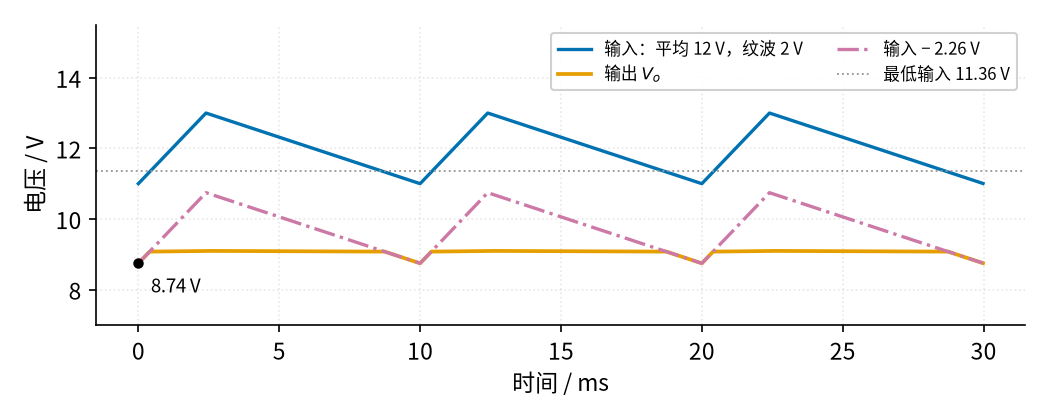
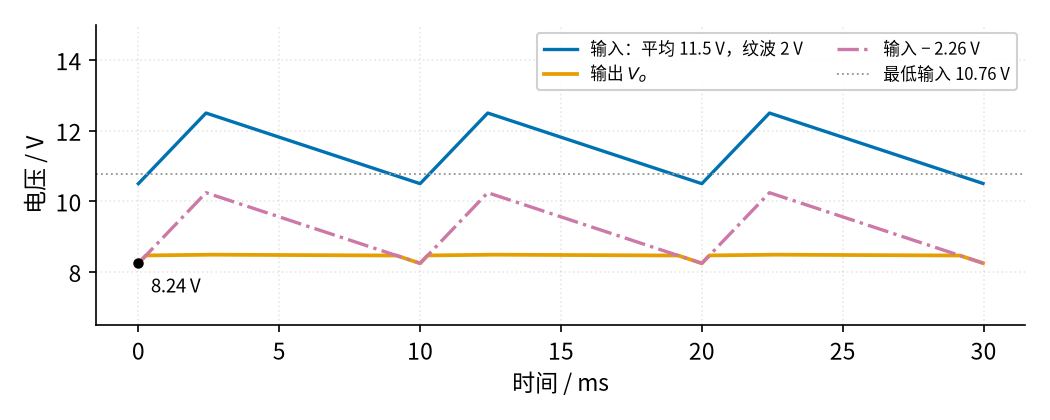
fix: 线性稳压 复核修改

diff --git a/code/figs/08_figs.py b/code/figs/08_figs.py
@@ -1,12 +1,14 @@
 """08 线性稳压：电路图（schemdraw）。运行：/workspace/circuits-venv/bin/python code/figs/08_figs.py
-图上的数字与 code/08_sim.py 的打印一致（V_ref 5.16 V、V_o 9.11 V、运放输出 9.86 V），本脚本也会打印它们。"""
+图上的数字与 code/08_sim.py 的打印一致（V_ref 4.82 V、V_o 8.51 V、运放输出 9.26 V），本脚本也会打印它们。"""
 import os, sys
 sys.path.insert(0, os.path.dirname(os.path.abspath(__file__)))
 import schem
 from schem import elm
 
 P = "08"
-VREF, RF, R1 = 5.162, 3900.0, 5100.0
+VZ0 = 5.1 - 7.0 * 0.049                  # 1N4733A 击穿起点（见 10 page2）
+VREF = VZ0 + 7.0 * (14.0 - VZ0) / 1007.0   # 14 V 输入、R_Z 1 kΩ 时的基准
+RF, R1 = 3900.0, 5100.0
 VO = VREF * (1 + RF / R1)
 VB = VO + 0.755
 
@@ -79,7 +81,7 @@ def p2_1():
         regulator(d, detail=True)
         d += elm.Label().at((4.6, 4.9)).label("LM358（由 $V_i$ 供电）", loc="center")
     print(f"[图 08-p2-1] V_ref {VREF:.2f} V、运放输出 {VB:.2f} V、V_o {VO:.2f} V、R_Z 1 kΩ、R_f 3.9 kΩ、R_1 5.1 kΩ、C_o 10 µF、0.5 A")
-    assert abs(VO - 9.11) < 0.005
+    assert abs(VO - 8.51) < 0.005
     schem.save_schem(d, P, "08_p2_1_detail.png")
 
 

diff --git a/08-linear-regulator/page3.md b/08-linear-regulator/page3.md
@@ -13,10 +13,10 @@
 
 | 参数 | 本例取值 | 决定什么 | 怎么选 |
 |---|---|---|---|
-| 基准 $V_{ref}$ | 5.16 V（1N4733A， $R_Z$ 1 kΩ） | 输出精度和纹波 | 基准越干净，输出纹波越小 |
-| $R_f$ 、 $R_1$ | 3.9 kΩ、5.1 kΩ | 输出电压 9.11 V | $R_f = R_1(V_o/V_{ref} - 1)$ ，取几千欧 |
-| 压差 | 2.26 V（0.5 A） | 最低输入 11.36 V | 输入纹波的**谷底**也要高于它 |
-| 调整管功耗 | $(V_i - V_o) I$ ，本例 2.45 W | 要不要散热片 | 按最高输入算 |
+| 基准 $V_{ref}$ | 4.82 V（1N4733A， $R_Z$ 1 kΩ） | 输出精度和纹波 | 基准越干净，输出纹波越小 |
+| $R_f$ 、 $R_1$ | 3.9 kΩ、5.1 kΩ | 输出电压 8.51 V | $R_f = R_1(V_o/V_{ref} - 1)$ ，取几千欧 |
+| 压差 | 2.26 V（0.5 A） | 最低输入 10.76 V | 输入纹波的**谷底**也要高于它 |
+| 调整管功耗 | $(V_i - V_o) I$ ，本例 2.75 W | 要不要散热片 | 按最高输入算 |
 | 调整管 | TIP31（见 07 page3） | 电流和功耗上限 | 不加散热片 2 W，加散热片到 40 W（管壳 25 °C） |
 | 输出电容 $C_o$ | 10 µF（示意值） | 稳定性和负载突变 | 必须用负载跳变实验确认 |
 
@@ -24,52 +24,52 @@
 
 调整管的功耗 $(V_i - V_o) I$ 随输入升高而线性增加，效率则一路下降，见图 08-p3-1：
 
-![横轴输入 12 到 20 V。左轴是朱红色带叉的调整管功耗直线，14 V 时 2.45 W，15.6 V 时 3.25 W；灰色点线标出 2 W；右轴是红紫色点划线的效率曲线，14 V 时 64%，20 V 时 44%](img/08_p3_1_heat.png)
+![横轴输入 11.5 到 20 V。左轴是朱红色带叉的调整管功耗直线，14 V 时 2.75 W，15.6 V 时 3.55 W；灰色点线标出 2 W；右轴是红紫色点划线的效率曲线，14 V 时 60%，20 V 时 41%](img/08_p3_1_heat.png)
 
 *图 08-p3-1　调整管功耗与效率随输入电压的变化（负载 0.5 A）*
 
-图 08-p3-1 告诉我们：设计时不能只看平均输入 14 V。市电电压会波动，ESP 的稳压电路文章建议按 +10% / −15% 考虑。电网偏高 10% 时，整流后的输入会跟着升到约 15.6 V，功耗就从 2.45 W 涨到 3.25 W。两者都在灰色点线 2 W 之上，所以 TIP31 必须加散热片。
+图 08-p3-1 告诉我们：设计时不能只看平均输入 14 V。市电电压会波动，ESP 的稳压电路文章建议按 +10% / −15% 考虑。电网偏高 10% 时，整流后的输入升到约 15.6 V。这个数比 14 × 1.1 ≈ 15.4 V 稍大，因为整流桥两只二极管的约 1.4 V 压降不跟着市电涨：输入峰值原来是 14 + 1 = 15 V（平均 14 V、纹波 2 V），变压器次级峰值就是 15 + 1.4 = 16.4 V；它涨 10% 变成约 18.0 V，再减去 1.4 V，峰值约 16.6 V，纹波仍按 2 V 算，平均约 15.6 V（ `code/08_sim.py` 会打印这一步）。功耗就从 2.75 W 涨到 3.55 W。两者都在灰色点线 2 W 之上，所以 TIP31 必须加散热片。
 
 估算散热片分三步（取结温上限 150 °C、机箱内环境 40 °C）：
 
-1. 允许的总热阻 = (150 − 40) ÷ 功耗。按 3.25 W 算，约 33.9 °C/W；按 2.45 W 算是 45.0 °C/W。
-2. 不加散热片时 TIP31 的结到环境热阻是 62.5 °C/W（见 07 page3），3.25 W 会升温约 203 °C，远远超标。
-3. 减去管子自身的结到管壳热阻（onsemi 手册最大 3.125 °C/W，约 3.1 °C/W），散热片（含导热垫）要不大于约 30.8 °C/W。再留一点余量，选标称 20 °C/W 左右的散热片。
+1. 允许的总热阻 = (150 − 40) ÷ 功耗。按 3.55 W 算，约 31.0 °C/W；按 2.75 W 算是 40.1 °C/W。
+2. 不加散热片时 TIP31 的结到环境热阻是 62.5 °C/W（见 07 page3），3.55 W 会升温约 222 °C，远远超标。
+3. 减去管子自身的结到管壳热阻（onsemi 手册最大 3.125 °C/W，约 3.1 °C/W），散热片（含导热垫）要不大于约 27.9 °C/W。再留一点余量，选标称 20 °C/W 左右的散热片。
 
-如果输入高到 20 V，功耗变成 5.45 W，效率只剩 44%：一半以上的电变成热。这时与其加大散热片，不如先降低输入（换低一档的变压器），或者改用 09 开关电源。
+如果输入高到 20 V，功耗变成 5.75 W，效率只剩 41%：一半以上的电变成热。这时与其加大散热片，不如先降低输入（换低一档的变压器），或者改用 09 开关电源。
 
 ## 三、压差不够：看纹波的谷底
 
-输入的**平均值**够高，不等于**每一刻**都够高。把输入平均值降到 12 V、纹波仍是 2 V，看图 08-p3-2：
+输入的**平均值**够高，不等于**每一刻**都够高。把输入平均值降到 11.5 V、纹波仍是 2 V，看图 08-p3-2：
 
-![蓝色输入在 11 到 13 V 之间锯齿波动；灰色点线标出最低输入 11.36 V；红紫色点划线是输入减 2.26 V；橙色输出大部分时间是 9.1 V，但在输入谷底附近被拉下去，最低 8.74 V](img/08_p3_2_low_headroom.png)
+![蓝色输入在 10.5 到 12.5 V 之间锯齿波动；灰色点线标出最低输入 10.76 V；红紫色点划线是输入减 2.26 V；橙色输出大部分时间是 8.5 V，但在输入谷底附近被拉下去，最低 8.24 V](img/08_p3_2_low_headroom.png)
 
 *图 08-p3-2　输入谷底低于最低输入时输出出现缺口*
 
-图 08-p3-2 里，输入的谷底 11.0 V 低于灰色点线标出的最低输入 11.36 V。每当输入落到这条线以下，运放顶到头，橙色输出就沿着红紫色点划线（输入减 2.26 V）往下走，最低到 8.74 V。输出纹波一下从 24.5 mV 变成 352 mV，变大了十几倍。
+图 08-p3-2 里，输入的谷底 10.5 V 低于灰色点线标出的最低输入 10.76 V。每当输入落到这条线以下，运放顶到头，橙色输出就沿着红紫色点划线（输入减 2.26 V）往下走，最低到 8.24 V。输出纹波一下从 24.5 mV 变成 245 mV，变大了 10 倍。
 
-用示波器看，就是输出每个周期都"缺一口"。解决办法：加大滤波电容让纹波变小，提高变压器电压，或者换压差更小的调整电路（例如 LDO，下一节会讲它的代价）。
+用示波器看，就是输出每个周期都"缺一口"。解决办法：加大滤波电容让纹波变小，提高变压器电压，或者换压差更小的调整电路（例如 LDO，本页第四节会讲它的代价）。
 
 ## 四、输出电容与振荡
 
-运放、调整管、输出电容和负载构成一个环。环里每多一个"延迟"，反馈就可能从"纠错"变成"推波助澜"，输出就会自己振荡起来。这里要分两种情况：
+运放、调整管、输出电容和负载构成一个环。回到直觉篇那个盯着水位计拧阀门的人：如果他反应总慢半拍，看到水位低了才去开阀，等水真涨上来时他还在开，水位就冲过了线；他再慌忙去关，又关过了头。本来是"纠错"，因为慢半拍变成了"推波助澜"，水位就上下来回晃个不停。电路也一样，环里每多一个"延迟"，反馈就可能从纠错变成放大误差，输出就会自己振荡起来。这里要分两种情况：
 
-- **NPN 调整管（78xx、LM317、本页的射极跟随器结构）**：调整管接成射极跟随器，输出阻抗本来就低。TI 的 uA78xx 和 LM317 手册都写明输出电容**不是稳定所必需的**，它只改善负载突变时的响应。
-- **低压差稳压器（LDO，调整管是 PNP 管或 P 沟道 MOSFET）**：压差可以低到零点几伏，但输出端阻抗高，环里多出一个由输出电容和负载决定的极点。TI 应用笔记 SLVA115 说明，这类稳压器**必须**接一只等效串联电阻（ESR）合适的输出电容才能稳定，电容太小或 ESR 不对就会振荡。
+- **NPN 调整管（78xx、LM317、本页的射极跟随器结构）**：调整管接成射极跟随器，输出阻抗本来就低（输出阻抗就是把稳压器看成"电池串内阻"时那只内阻，见 [P1 元件速成 · 原理与实现篇](../P1-components-basics/page2.md) 第七节；它越小，负载电流变化时输出电压越不容易被拉动）。TI 的 uA78xx 和 LM317 手册都写明输出电容**不是稳定所必需的**，它只改善负载突变时的响应。
+- **低压差稳压器（LDO，调整管是 PNP 管或 P 沟道 MOSFET）**：P 沟道 MOSFET 是栅极电压比源极低时导通的那种 MOS 管（见 [P2 半导体入门 · 原理与实现篇](../P2-semiconductor-basics/page2.md)）。这类调整管接在输入和输出之间，不用像射极跟随器那样少掉一个 $V_{BE}$ ，压差可以低到零点几伏；但它的输出端阻抗高，环里多出一个由输出电容和负载造成的"延迟"。TI 应用笔记 SLVA115 说明，这类稳压器**必须**接一只等效串联电阻（ESR，电容内部相当于串着的一个小电阻，通常零点几欧到几欧）合适的输出电容才能稳定，电容太小或 ESR 不对就会振荡。
 
-本页的分立电路用的是 LM358 这种通用运放，它本身没有为驱动电容负载专门补偿，图中 10 µF 只是示意值。**到底要多大、会不会振荡，只能用下一节的负载跳变实验来确认**。
+本页的分立电路用的是 LM358 这种通用运放，它本身没有为驱动电容负载专门补偿（补偿就是在环里加电容、电阻，让它反应"慢而稳"，不再慢半拍地来回过冲；怎么设计本教程不展开），图中 10 µF 只是示意值。**到底要多大、会不会振荡，只能用本页第五节的负载跳变实验来确认**。
 
 ## 五、动手实验：低压验证
 
 > [!NOTE]
 > 全程用可调直流电源，限流先设 0.6 A。负载电阻会发热，要用 10 W 以上的功率电阻，放在不易碰到的地方。
 
-1. 按图搭电路，TIP31 装好散热片。负载先接 180 Ω（约 0.05 A）。
-2. 电源调到 14 V，测 $V_{ref}$ （应约 5.16 V）、 $V_o$ （约 9.11 V）、运放输出（约 9.8 V）。
-3. 负载换成 18 Ω（约 0.5 A），输出应几乎不变；运放输出升高几十毫伏。
-4. 把电源从 14 V 慢慢往下调，记下输出开始下降时的输入，应在 11.3–11.4 V 附近。
-5. **负载跳变**：用开关让负载在 180 Ω 和 18 Ω 之间来回切换，示波器看输出。正常情况是一个很快衰减的小台阶；如果出现持续的正弦波或长时间振铃，就是不稳定，要调整输出电容或给运放加补偿，然后再测一遍。
-6. 摸散热片前先断电。0.5 A、14 V 时散热片应明显温热但不烫手。
+1. 断电状态下按图搭电路，TIP31 装好散热片。负载先接 180 Ω（约 0.05 A）。
+2. 电源调到 14 V，测 $V_{ref}$ （应约 4.82 V）、 $V_o$ （约 8.51 V）、运放输出（约 9.2 V）。
+3. 先断电，再把负载换成 18 Ω（约 0.47 A），重新上电，输出应几乎不变；运放输出升高几十毫伏。
+4. 把电源从 14 V 慢慢往下调，记下输出开始下降时的输入，应在 10.7–10.8 V 附近。
+5. **负载跳变**：用开关让负载在 180 Ω 和 18 Ω 之间来回切换，示波器看输出。正常情况是一个很快衰减的小台阶；如果出现持续的正弦波或长时间振铃（台阶后面跟着一串慢慢变小的来回摆动，像敲钟后的余音），就是不稳定，断电后调整输出电容或给运放加补偿，然后再测一遍。
+6. 散热片温度**不要用手摸**，用测温枪或热电偶测。估算：调整管 2.75 W，按 20 °C/W 的散热片，散热片比室温高约 2.75 × 20 ≈ 55 °C，室温 25 °C 时约 80 °C，足以烫伤。实测明显超过 90 °C，说明散热片太小或输入太高。
 
 ## 六、故障排查表
 
@@ -77,36 +77,45 @@
 |---|---|---|---|
 | 输出等于输入减 2 V 多，不稳 | 输入低于最低输入 | 量输入谷底 | 提高输入或减小纹波 |
 | 输出纹波周期性"缺口" | 纹波谷底跌破压差 | 示波器同时看输入和输出 | 加大滤波电容 |
-| 输出约 0.6 V 或为 0 | 调整管损坏或基极没驱动 | 量运放输出和 $V_{BE}$ | 换管，查运放供电 |
-| 输出接近输入 | 调整管击穿短路，或反馈断开 | 量反相端电压是否等于 $V_{ref}$ | 换管，检查 $R_f$ 、 $R_1$ 焊点 |
-| 输出电压不对 | $R_f$ 、 $R_1$ 接反或阻值错 | 按 $V_{ref}(1 + R_f/R_1)$ 核算 | 换电阻 |
+| 输出接近 0 V（零点几伏以下） | 调整管损坏开路或基极没驱动：没有电流从集电极流到负载，输出只剩漏电 | 量运放输出和 $V_{BE}$ | 断电后换管，查运放供电 |
+| 输出接近输入 | 调整管击穿短路，或反馈断开 | 量反相端电压是否等于 $V_{ref}$ | 断电后换管，检查 $R_f$ 、 $R_1$ 焊点 |
+| 输出电压不对 | $R_f$ 、 $R_1$ 接反或阻值错 | 按 $V_{ref}(1 + R_f/R_1)$ 核算 | 断电后换电阻 |
 | 调整管烫手、过一会儿输出变低 | 散热不足 | 估算 $(V_i - V_o) I$ | 加大散热片或降低输入 |
-| 7805 输出时有时无 | 过热保护动作 | 摸芯片、算功耗 | 加散热片 |
+| 7805 输出时有时无 | 过热保护动作 | 用测温枪测芯片、算功耗 | 断电后加散热片 |
 | 输出叠加高频波形 | 环路振荡 | 示波器看输出 | 按第四节处理 |
-| 7812 等高压输出版本断电时损坏 | 输出电容反灌 | 看是否有保护二极管 | 手册建议输出高于约 7 V 时加反向保护二极管 |
-| LM317 轻载时输出偏高 | 低于最小负载电流 | 去掉负载量输出 | 按手册减小 $R_1$ 或加假负载 |
+| 7812 等高压输出版本断电时损坏 | 输出电容反灌：输入先掉到 0，输出电容上还存着 12 V，电流倒着从输出流回输入，冲坏芯片 | 看是否有保护二极管 | 手册建议输出高于约 7 V 时，在输出和输入之间反接一只二极管（阴极接输入），让电容的电绕过芯片放掉 |
+| LM317 轻载时输出偏高 | 低于最小负载电流（芯片内部电路要求输出至少流出几毫安，否则调节失常） | 去掉负载量输出 | 按手册减小 $R_1$ （让分压电阻本身流过足够电流），或加假负载（一只一直接在输出上的电阻） |
 
 ## 七、练习
 
-**练习 1** 本页电路，输入 16 V、负载 0.5 A，调整管功耗多少？不加散热片时温升多少？
+**练习 1（易）** 本页电路，输入 16 V、负载 0.5 A，调整管功耗多少？不加散热片时温升多少？
 
 <details>
 <summary>答案</summary>
 
-(16 − 9.11) × 0.5 ≈ 3.45 W。温升 3.45 × 62.5 ≈ 216 °C，远超允许值，必须加散热片。
+(16 − 8.51) × 0.5 ≈ 3.75 W。温升 3.75 × 62.5 ≈ 234 °C，远超允许值，必须加散热片。
 
 </details>
 
-**练习 2** 输入平均 13 V、纹波 2 V，负载 0.5 A，会不会出现输出缺口？
+**练习 2（易）** 输入平均 12 V、纹波 2 V，负载 0.5 A，会不会出现输出缺口？
 
 <details>
 <summary>答案</summary>
 
-谷底 12 V，高于最低输入 11.36 V，不会出现缺口。只是余量只有 0.64 V，纹波再大一点就会出问题。
+谷底 11 V，高于最低输入 10.76 V，不会出现缺口。只是余量只有 0.24 V，纹波再大一点（或者市电偏低）就会出问题。
 
 </details>
 
-**练习 3** 7805 从 9 V 得到 5 V，负载 0.5 A，环境 40 °C。不加散热片（热阻 19 °C/W）可以吗？
+**练习 3（中）** 想让输出纹波再小一些，有人把 $R_Z$ 从 1 kΩ 换成 2 kΩ，其余不变（输入平均 14 V、纹波 2 V）。输出纹波变成多少？稳压管电流变成多少，有什么隐患？
+
+<details>
+<summary>答案</summary>
+
+基准纹波 2 V × 7 ÷ (2000 + 7) ≈ 6.98 mV，输出纹波 ≈ 6.98 × 1.765 ≈ 12.3 mV，比 24.5 mV 减半。代价是稳压管电流降到 (14 − 4.757) ÷ 2007 ≈ 4.6 mA，基准降到约 4.79 V，输出变成约 8.45 V。4.6 mA 只有测试电流 49 mA 的十分之一，已经靠近拐点（手册在 1 mA 时动态电阻是 550 Ω），实际动态电阻比 7 Ω 大，纹波改善不会有算的那么多；输入谷底再低一些时基准还会更"软"。所以 $R_Z$ 不能无限加大，见 [10 稳压管稳压 · 参数与调试篇](../10-zener-regulator/page3.md) 的参数表。
+
+</details>
+
+**练习 4（中）** 7805 从 9 V 得到 5 V，负载 0.5 A，环境 40 °C。不加散热片（热阻 19 °C/W）可以吗？
 
 <details>
 <summary>答案</summary>
@@ -115,7 +124,7 @@
 
 </details>
 
-**练习 4** 有人说"输出电容越大越稳，随便加"。对 LDO 和 7805 分别对吗？
+**练习 5（难，变体迁移）** 有人说"输出电容越大越稳，随便加"。对 LDO 和 7805 分别对吗？
 
 <details>
 <summary>答案</summary>

diff --git a/08-linear-regulator/page2.md b/08-linear-regulator/page2.md
@@ -7,35 +7,35 @@
 
 ## 这一页要回答什么
 
-直觉篇说：输出约 9.1 V，2 V 的纹波只剩 24.5 mV，输入不能低于约 11.4 V。这一页把这些数一个个推出来，最后看看把同样的结构做进一颗芯片的 7805。
+直觉篇说：输出约 8.5 V，2 V 的纹波只剩 24.5 mV，输入不能低于约 10.8 V。这一页把这些数一个个推出来，最后看看把同样的结构做进一颗芯片的 7805。
 
 ## 一、用到的旧知识
 
-- **稳压管基准**（见 10 page2）：稳压管可以看成一个 $V_Z$ = 5.1 V 的电池串一只 $r_Z$ = 7 Ω 的小电阻，电压 $V_Z + r_Z I_Z$ 。
-- **同相放大**（见 02 page2）：运放的"虚短"让两个输入端电压相等，"虚断"让输入端不取电流，于是 $V_o = (1 + R_f/R_1) V_i$ 。
+- **稳压管基准**（见 [10 稳压管稳压 · 原理与实现篇](../10-zener-regulator/page2.md)）：手册说 1N4733A 在测试电流 $I_{ZT}$ = 49 mA 时是 5.1 V，动态电阻 $r_Z$ = 7 Ω。和 10 节一样，把它看成一节 $V_{Z0}$ 的电池串一只 7 Ω 的小电阻，电压 $V_{Z0} + r_Z I_Z$ ，其中击穿起点 $V_{Z0}$ = 5.1 − 7 × 0.049 ≈ 4.757 V，这样 49 mA 时正好回到手册的 5.1 V。电流比 49 mA 小，电压就比 5.1 V 低。
+- **同相放大**（见 02 page2）：只要运放接成负反馈、输出又没有顶到电源（没有饱和），"虚短"就让两个输入端电压相等，"虚断"让输入端不取电流，于是 $V_o = (1 + R_f/R_1) V_i$ 。
 - **射极跟随器**（见 07 page2）：发射极电压比基极低一个 $V_{BE}$ （约 0.7 V），基极电流只有发射极电流的 $1/(\beta + 1)$ ；放进运放的反馈环里， $V_{BE}$ 会被运放自动补上。
 
 ## 二、输出电压公式
 
 把电路完整画出来，元件取值都标在图上，见图 08-p2-1：
 
-![完整电路：输入 14 V 经 R_Z 1 kΩ 接稳压管 1N4733A 得到 V_ref 5.16 V，接 LM358 同相端；LM358 由输入供电，输出 9.86 V 接 TIP31 基极；TIP31 集电极接输入，发射极为输出 9.11 V，接 R_f 3.9 kΩ 和 R_1 5.1 kΩ 分压到反相端，并接输出电容 C_o 10 µF 和 0.5 A 负载](img/08_p2_1_detail.png)
+![完整电路：输入 14 V 经 R_Z 1 kΩ 接稳压管 1N4733A 得到 V_ref 4.82 V，接 LM358 同相端；LM358 由输入供电，输出 9.26 V 接 TIP31 基极；TIP31 集电极接输入，发射极为输出 8.51 V，接 R_f 3.9 kΩ 和 R_1 5.1 kΩ 分压到反相端，并接输出电容 C_o 10 µF 和 0.5 A 负载](img/08_p2_1_detail.png)
 
 *图 08-p2-1　分立元件线性稳压电路（输入 14 V、负载 0.5 A）*
 
 按图 08-p2-1 从左往右推：
 
-**第 1 步，基准**。 $R_Z$ 上的电流就是稳压管电流： $I_Z = (14 - 5.1) / (1000 + 7)$ ≈ 8.84 mA，所以 $V_{ref} = 5.1 + 7 \times 0.00884$ ≈ 5.162 V。运放同相端不取电流（虚断），这 8.84 mA 全部流进稳压管。
+**第 1 步，基准**。 $R_Z$ 上的电流就是稳压管电流： $I_Z = (14 - 4.757) / (1000 + 7)$ ≈ 9.18 mA，所以 $V_{ref} = 4.757 + 7 \times 0.00918$ ≈ 4.821 V。运放同相端不取电流（虚断），这 9.18 mA 全部流进稳压管。
 
-**第 2 步，虚短**。运放让反相端电压也等于 $V_{ref}$ 。
+**第 2 步，虚短**。电路是负反馈（输出经分压送回反相端），只要运放没有饱和（输出没顶到电源，第四节会看到顶到头的情况），它就让反相端电压也等于 $V_{ref}$ 。
 
 **第 3 步，分压**。反相端是 $R_f$ 和 $R_1$ 的中点，电压为 $V_o \cdot R_1/(R_1 + R_f)$ 。令它等于 $V_{ref}$ ，得到
 
 $$V_o = V_{ref}\left(1 + \frac{R_f}{R_1}\right)$$
 
-代入：5.162 × (1 + 3.9 ÷ 5.1) = 5.162 × 1.765 ≈ 9.109 V。这和 02 的同相放大公式一模一样，只是"输入"换成了固定不变的基准。所以输出是 9.11 V 而不是整数 9 V：基准用的就是 10 节那只 5.1 V 稳压管。
+代入：4.821 × (1 + 3.9 ÷ 5.1) = 4.821 × 1.765 ≈ 8.508 V。这和 02 的同相放大公式一模一样，只是"输入"换成了固定不变的基准。所以输出是 8.51 V 而不是整数：基准是 10 节那只稳压管在 9 mA 下的电压 4.82 V，比手册上 49 mA 时的 5.1 V 低。
 
-**第 4 步，运放要给多少**。调整管发射极是 9.11 V，负载 0.5 A 时 $V_{BE}$ ≈ 0.755 V，所以运放输出要到 9.11 + 0.755 ≈ 9.86 V；基极电流 $I_B$ = 0.5 ÷ 51 ≈ 9.8 mA（ $\beta$ = 50），没有超过 LM358 最少 20 mA 的输出能力（见 07 page1）。
+**第 4 步，运放要给多少**。调整管发射极是 8.51 V，负载 0.5 A 时 $V_{BE}$ ≈ 0.755 V，所以运放输出要到 8.51 + 0.755 ≈ 9.26 V；基极电流 $I_B$ = 0.5 ÷ 51 ≈ 9.8 mA（ $\beta$ = 50），没有超过 LM358 最少 20 mA 的输出能力（见 07 page1）。
 
 ## 三、为什么 $V_{BE}$ 不影响输出
 
@@ -49,17 +49,19 @@ $$V_o = \frac{A V_{ref} - V_{BE}}{1 + A K}$$
 
 ## 四、压差：输入最低能到多少
 
-运放的输出不可能比自己的电源还高。LM358 由输入 $V_i$ 供电，输出最高约 $V_i - 1.5$ V（见 07 page2）。它要给出 $V_o + V_{BE}$ ，所以
+运放的输出不可能比自己的电源还高。LM358 由输入 $V_i$ 供电，输出最高约 $V_i - 1.5$ V。这里沿用 07 page2 的估算；07 page3 引的 LM358B 手册典型值是差 1.4 V，取 1.5 V 是多留 0.1 V 余量，算出的最低输入偏保守。它要给出 $V_o + V_{BE}$ ，所以
 
 $$V_i \ge V_o + 1.5 + V_{BE}$$
 
-负载 0.5 A 时压差 1.5 + 0.755 = 2.255 V，输入最低约 11.36 V。输入再低，运放顶到头，输出就只能跟着输入往下掉，见图 08-p2-2：
+负载 0.5 A 时压差 1.5 + 0.755 = 2.255 V，输入最低约 8.51 + 2.255 ≈ 10.76 V。输入再低，运放顶到头，输出就只能跟着输入往下掉，见图 08-p2-2：
 
-![横轴输入 8 到 16 V。蓝色斜线是输入本身；橙色 0.5 A 曲线在 11.36 V 以上是 9.11 V 的水平线，以下沿斜线下降，输入 10 V 时为 7.74 V；红紫色点划线是 0.05 A，拐点稍靠左；11.36 V 以下有灰色阴影](img/08_p2_2_dropout.png)
+![横轴输入 6 到 16 V。蓝色斜线是输入本身；橙色 0.5 A 曲线在 10.76 V 以上是 8.51 V 的水平线，以下沿斜线下降，输入 10 V 时为 7.74 V；红紫色点划线是 0.05 A，拐点稍靠左；10.76 V 以下有灰色阴影](img/08_p2_2_dropout.png)
 
 *图 08-p2-2　输出电压随输入电压变化（两种负载）*
 
-图 08-p2-2 里，橙色曲线（0.5 A）在拐点右边是水平的，这段叫"稳压区"；灰色阴影区里它和蓝色输入线平行，始终比输入低 2.26 V，这段叫"跟随区"，输入 10 V 时输出只有 7.74 V。红紫色点划线是 0.05 A 负载，此时 $V_{BE}$ 约 0.696 V，拐点左移到 11.31 V，相差不大：压差主要是运放的 1.5 V 决定的。
+图 08-p2-2 里，橙色曲线（0.5 A）在拐点右边是水平的，这段叫"稳压区"；灰色阴影区里它和蓝色输入线平行，始终比输入低 2.26 V，这段叫"跟随区"，输入 10 V 时输出只有 7.74 V。红紫色点划线是 0.05 A 负载，此时 $V_{BE}$ 约 0.696 V，拐点左移到 10.70 V，相差不大：压差主要是运放的 1.5 V 决定的。
+
+运放的电源就是带纹波的 $V_i$ ，为什么电源上的 2 V 起伏不会直接出现在输出上？因为运放的输出由两个输入端的电压差决定，只要电源始终够高、输出没顶到头，电源电压的起伏对输出影响很小（手册里把这种能力叫"电源抑制比"，这里直接用结论）。所以真正漏到输出的纹波走的是下一节说的另一条路。
 
 ## 五、纹波是怎么被压下去的
 
@@ -69,18 +71,20 @@ $$\Delta V_{ref} = \Delta V_i \cdot \frac{r_Z}{R_Z + r_Z}$$
 
 2 V × 7 ÷ 1007 ≈ 13.9 mV。运放把基准原样放大 1.765 倍，所以输出纹波 ≈ 13.9 × 1.765 ≈ 24.5 mV，和直觉篇的仿真一致。2 V 变成 24.5 mV，缩小了约 80 倍。工程上常用"分贝"（dB）表示这种倍数：20 dB 是 10 倍，40 dB 是 100 倍，80 倍约为 38 dB。这个指标叫**纹波抑制比**。
 
-要提醒一句：7 Ω 是手册在 49 mA 测试电流下给的动态电阻（见 10 page3 的参数表），本例稳压管只有 8.84 mA，越靠近击穿拐点动态电阻越大，实际纹波会比 24.5 mV 大一些，以实测为准。
+要提醒一句：7 Ω 是手册在 49 mA 测试电流下给的动态电阻（见 10 page3 的参数表），本例稳压管只有 9.18 mA，越靠近击穿拐点动态电阻越大，实际纹波会比 24.5 mV 大一些，以实测为准。
 
-想再好一些，就要让基准更干净，比如把 $R_Z$ 换成恒流源，或者在稳压管上并一只电容。7805 的典型纹波抑制比是 78 dB（约 8000 倍），靠的就是芯片内部更讲究的基准。
+想再好一些，就要让基准更干净，比如把 $R_Z$ 换成恒流源（不管两端电压怎么变，都送出固定电流的电路；电流不随 $V_i$ 变， $V_{ref}$ 也就不跟着纹波晃），或者在稳压管上并一只电容。7805 的典型纹波抑制比是 78 dB（约 8000 倍），靠的就是芯片内部更讲究的基准。
 
 ## 六、用程序验证
 
-下面的程序只用 Python 标准库，把上面的推导算一遍：
+下面的程序只用 Python 标准库，把上面的推导算一遍，在仓库根目录运行即可。完整的绘图版本在 `code/08_sim.py`。
 
 ```python
+# 在仓库根目录运行（只用标准库，不读写文件）
 import math
 
-VZ, RZ_DYN, R_Z = 5.1, 7.0, 1000.0   # 稳压管基准：1N4733A 模型（见 10 page2）
+VZ, IZT, RZ_DYN, R_Z = 5.1, 0.049, 7.0, 1000.0   # 1N4733A：49 mA 时 5.1 V，r_Z 7 Ω（见 10 page2）
+VZ0 = VZ - RZ_DYN * IZT              # 击穿起点 ≈ 4.757 V
 R1, RF = 5100.0, 3900.0               # 同相放大的两个电阻（见 02 page2）
 A = 1e5                               # 运放开环增益（示意值）
 HEAD = 1.5                            # 运放输出最高只到 V_i − 1.5 V（与 07 相同的估算）
@@ -88,8 +92,8 @@ VT, IS, BETA = 0.02585, 1e-13, 50.0   # 三极管模型（与 07 相同）
 K = R1 / (R1 + RF)                    # 输出被分压后送回反相端的比例
 
 def vref(vi):
-    iz = (vi - VZ) / (R_Z + RZ_DYN)   # 稳压管电流
-    return VZ + RZ_DYN * iz
+    iz = (vi - VZ0) / (R_Z + RZ_DYN)  # 稳压管电流
+    return VZ0 + RZ_DYN * iz
 
 def vbe(il):
     return VT * math.log(il * BETA / (BETA + 1) / IS + 1)
@@ -111,7 +115,7 @@ for vi in (12.0, 11.0, 10.0):
 print(f"调整管功耗 (14 − V_o) × 0.5 A = {(14.0 - vo) * 0.5:.2f} W")
 ```
 
-运行结果应为：V_ref 5.162 V，公式和仿真都是 9.109 V；负载从 0.01 A 加到 0.5 A，输出只变 1.8 µV；输入从 13 V 变到 15 V，输出变 24.5 mV；压差 2.255 V，最低输入 11.36 V；输入 12 V 时仍为 9.08 V（基准本身略降），11 V 时掉到 8.74 V，10 V 时 7.74 V；调整管功耗 2.45 W。
+运行结果应为：V_ref 4.821 V，公式和仿真都是 8.508 V；负载从 0.01 A 加到 0.5 A，输出只变 1.8 µV；输入从 13 V 变到 15 V，输出变 24.5 mV；压差 2.255 V，最低输入 10.76 V；输入 12 V 时仍为 8.48 V，11 V 时 8.47 V（都还在稳压区，只是基准随输入略降），10 V 时掉到 7.74 V；调整管功耗 2.75 W。
 
 ## 七、现成的芯片：三端稳压器 7805
 
@@ -125,8 +129,8 @@ print(f"调整管功耗 (14 − V_o) × 0.5 A = {(14.0 - vo) * 0.5:.2f} W")
 
 | 项目 | 7805 的数值 | 和本页分立电路对比 |
 |---|---|---|
-| 输出电压 | 4.8–5.2 V（25 °C） | 9.11 V，由电阻决定 |
-| 推荐输入 | 7–25 V | 11.36 V 以上 |
+| 输出电压 | 4.8–5.2 V（25 °C） | 8.51 V，由电阻决定 |
+| 推荐输入 | 7–25 V | 10.76 V 以上 |
 | 压差 | 典型 2 V（1 A 时） | 2.26 V（0.5 A 时） |
 | 纹波抑制 | 最小 62 dB，典型 78 dB | 约 38 dB |
 | 最大输出电流 | 1.5 A，内部有过热、短路保护 | 无保护 |
@@ -137,32 +141,32 @@ print(f"调整管功耗 (14 − V_o) × 0.5 A = {(14.0 - vo) * 0.5:.2f} W")
 
 ## 八、渐进例题
 
-**例 1（完整）** 基准仍是 5.162 V， $R_1$ 仍为 5.1 kΩ，想输出约 12 V，负载 0.5 A，输入 16 V。
+**例 1（完整）** 基准按 4.82 V 算（输入升到 16 V 时， $I_Z$ 增大到约 11.2 mA，基准只升高约 14 mV，先忽略）， $R_1$ 仍为 5.1 kΩ，想输出约 12 V，负载 0.5 A，输入 16 V。
 
-1. 由公式反推 $R_f = R_1(V_o/V_{ref} - 1)$ = 5.1 × (12 ÷ 5.162 − 1) ≈ 6.76 kΩ，取标准值 6.8 kΩ。
-2. 实际输出 5.162 × (1 + 6.8 ÷ 5.1) ≈ 12.04 V。
-3. 最低输入 12.04 + 2.255 ≈ 14.30 V，16 V 够用。
-4. 调整管功耗 (16 − 12.04) × 0.5 ≈ 1.98 W。
+1. 由公式反推 $R_f = R_1(V_o/V_{ref} - 1)$ = 5.1 × (12 ÷ 4.82 − 1) ≈ 7.60 kΩ，取标准值 7.5 kΩ。
+2. 实际输出 4.82 × (1 + 7.5 ÷ 5.1) ≈ 11.91 V。
+3. 最低输入 11.91 + 2.255 ≈ 14.16 V，16 V 够用。
+4. 调整管功耗 (16 − 11.91) × 0.5 ≈ 2.05 W。
 
-**例 2（填空）** 基准取 5.16 V， $R_f$ = 2.0 kΩ， $R_1$ = 5.1 kΩ，负载 0.3 A，输入 12 V。
+**例 2（填空）** 基准取 4.82 V， $R_f$ = 2.0 kΩ， $R_1$ = 5.1 kΩ，负载 0.3 A，输入 12 V。
 
-1. 输出 $V_o$ = 5.16 × (1 + ____) ≈ ____ V。
+1. 输出 $V_o$ = 4.82 × (1 + ____) ≈ ____ V。
 2. 0.3 A 时 $V_{BE}$ ≈ 0.742 V，最低输入 = $V_o$ + 1.5 + 0.742 ≈ ____ V。
 3. 调整管功耗 = (12 − $V_o$) × 0.3 ≈ ____ W。
 
 <details>
 <summary>例 2 答案</summary>
 
-1. 2.0 ÷ 5.1 ≈ 0.392，输出 ≈ 7.18 V。
-2. 7.18 + 2.242 ≈ 9.43 V，12 V 满足要求。
-3. (12 − 7.18) × 0.3 ≈ 1.44 W。
+1. 2.0 ÷ 5.1 ≈ 0.392，输出 ≈ 4.82 × 1.392 ≈ 6.71 V。
+2. 6.71 + 2.242 ≈ 8.95 V，12 V 满足要求。
+3. (12 − 6.71) × 0.3 ≈ 1.59 W。
 
 </details>
 
-**例 3（变体）** 用 7805 从 12 V 得到 5 V，负载 1 A。
+**例 3（变体迁移）** 用 7805 从 12 V 得到 5 V，负载 1 A。
 
 - 压差够吗？7805 需要至少 7 V 输入，12 V 足够。
-- 发热多少？(12 − 5) × 1 = 7 W，比本页主例的 2.45 W 大得多。7805 的 TO-220 封装不加散热片时热阻约 19 °C/W，7 W 会让芯片升温约 133 °C，加上室温就超过结温上限 150 °C，芯片会触发过热保护，输出时断时续。参数与调试篇会讲怎么选散热片。
+- 发热多少？(12 − 5) × 1 = 7 W，比本页主例的 2.75 W 大得多。7805 的 TO-220 封装不加散热片时热阻约 19 °C/W，7 W 会让芯片升温约 133 °C，加上室温就超过结温上限 150 °C，芯片会触发过热保护，输出时断时续。参数与调试篇会讲怎么选散热片。
 
 ## 小结
 

diff --git a/08-linear-regulator/page1.md b/08-linear-regulator/page1.md
@@ -9,7 +9,7 @@
 
 回忆 [06 桥式整流 · 直觉篇](../06-bridge-rectifier/page1.md) 做出来的电源：12 V 交流经过整流桥和 2200 µF 电容，负载 0.19 A 时平均 14.34 V，还带着 0.67 V 的锯齿形纹波（见 06 page2）。负载一加大，电容放电更快，纹波跟着变大；电网电压高一点低一点，输出也跟着高一点低一点。单片机、传感器、音频放大器都不喜欢这种"会晃的电压"。
 
-[10 稳压管稳压 · 直觉篇](../10-zener-regulator/page1.md) 给了第一个办法：一只电阻加一只稳压管。它确实能把 1 V 的纹波压到 36.5 mV（见 10 page1），可是它有两个硬伤：输入 10 V 时，负载超过约 27.3 mA 就失去稳压（见 10 page2）；输入 12 V、负载 20 mA 时效率只有约 23%（见 10 page1）。想给一个要 0.5 A 的负载供电，这条路走不通。
+[10 稳压管稳压 · 直觉篇](../10-zener-regulator/page1.md) 给了第一个办法：一只电阻加一只稳压管。它确实能把 1 V 的纹波压到 36.5 mV（见 10 page1），可是它有两个硬伤：输入 10 V 时，负载超过约 29.2 mA 就失去稳压（见 10 page2）；输入 12 V、负载 20 mA 时效率只有约 21%（见 10 page1）。想给一个要 0.5 A 的负载供电，这条路走不通。
 
 10 的末尾还试过"稳压管 + 射极跟随器"：电流是大了，可输出被固定在 $V_Z - V_{BE}$ ，想要 9 V 就得重新找稳压管，而且 $V_{BE}$ 随电流和温度变化，输出也跟着漂。
 
@@ -43,25 +43,25 @@
 
 ## 三、效果：2 V 的纹波只剩几十毫伏
 
-用程序把本节的主例（输出约 9.1 V、负载 0.5 A）仿真一遍，见图 08-p1-2：
+用程序把本节的主例（输出约 8.5 V、负载 0.5 A）仿真一遍，见图 08-p1-2：
 
-![上图：蓝色输入在 13 到 15 V 之间锯齿波动，橙色输出是 9.1 V 附近的一条直线；下图把输出纵轴放大，只看到 24.5 mV 的小锯齿](img/08_p1_2_ripple.png)
+![上图：蓝色输入在 13 到 15 V 之间锯齿波动，橙色输出是 8.5 V 附近的一条直线；下图把输出纵轴放大，只看到 24.5 mV 的小锯齿](img/08_p1_2_ripple.png)
 
 *图 08-p1-2　带纹波的输入与稳定的输出（负载 0.5 A）*
 
-图 08-p1-2 上半部分，蓝色输入平均 14 V，纹波 2 V（峰峰值），这差不多就是 06 的整流电源带 0.5 A 负载时的样子；橙色输出几乎是一条水平线。下半部分把纵轴放大到只显示 9.09 V 到 9.15 V，才看出输出还有一个 24.5 mV 的小锯齿：2 V 的纹波被压小了约 80 倍。负载从 0.01 A 变到 0.5 A，输出的变化更是小到只有几微伏（原理篇会算）。
+图 08-p1-2 上半部分，蓝色输入平均 14 V，纹波 2 V（峰峰值），这差不多就是 06 的整流电源带 0.5 A 负载时的样子；橙色输出几乎是一条水平线。下半部分把纵轴放大到只显示 8.48 V 到 8.54 V，才看出输出还有一个 24.5 mV 的小锯齿：2 V 的纹波被压小了约 80 倍。负载从 0.01 A 变到 0.5 A，输出的变化更是小到只有几微伏（原理篇会算）。
 
 ## 四、代价：多出来的电压全变成热
 
 天下没有免费的午餐。调整管就像一个**会自动调节的电阻**，它把输入和输出之间多出来的电压"吃掉"。吃掉的电压乘以流过的电流，就是它发的热，见图 08-p1-3：
 
-![四根柱子：从输入拿走 7.14 W，负载得到 4.55 W，调整管发热 2.45 W，基准与分压 0.13 W](img/08_p1_3_power.png)
+![四根柱子：从输入拿走 7.14 W，负载得到 4.25 W，调整管发热 2.75 W，基准与分压 0.14 W](img/08_p1_3_power.png)
 
 *图 08-p1-3　输入 14 V、负载 0.5 A 时功率的去向*
 
-图 08-p1-3 里，蓝色柱子是从输入拿走的 7.14 W，橙色柱子是负载真正得到的 4.55 W，朱红色柱子是调整管变成热量的 2.45 W，灰色的小柱子是基准和分压电阻用掉的 0.13 W。效率约 64%，比 10 节的 23% 好得多，但仍有三分之一的能量变成了热。2.45 W 已经超过了 TIP31 不加散热片能承受的 2 W（见 07 page3），所以**线性稳压的调整管一般都要装散热片**。
+图 08-p1-3 里，蓝色柱子是从输入拿走的 7.14 W，橙色柱子是负载真正得到的 4.25 W，朱红色柱子是调整管变成热量的 2.75 W，灰色的小柱子是基准和分压电阻用掉的 0.14 W。效率约 60%，比 10 节的 21% 好得多，但仍有将近四成的能量变成了热。2.75 W 已经超过了 TIP31 不加散热片能承受的 2 W（见 07 page3），所以**线性稳压的调整管一般都要装散热片**。
 
-输入电压越高，调整管吃掉的电压越多，发热越厉害。这正是下一步要学 09 开关电源的原因。
+输入电压越高，调整管吃掉的电压越多，发热越厉害。这正是后面 09 开关电源要解决的问题。
 
 ## 五、记住三句话
 
